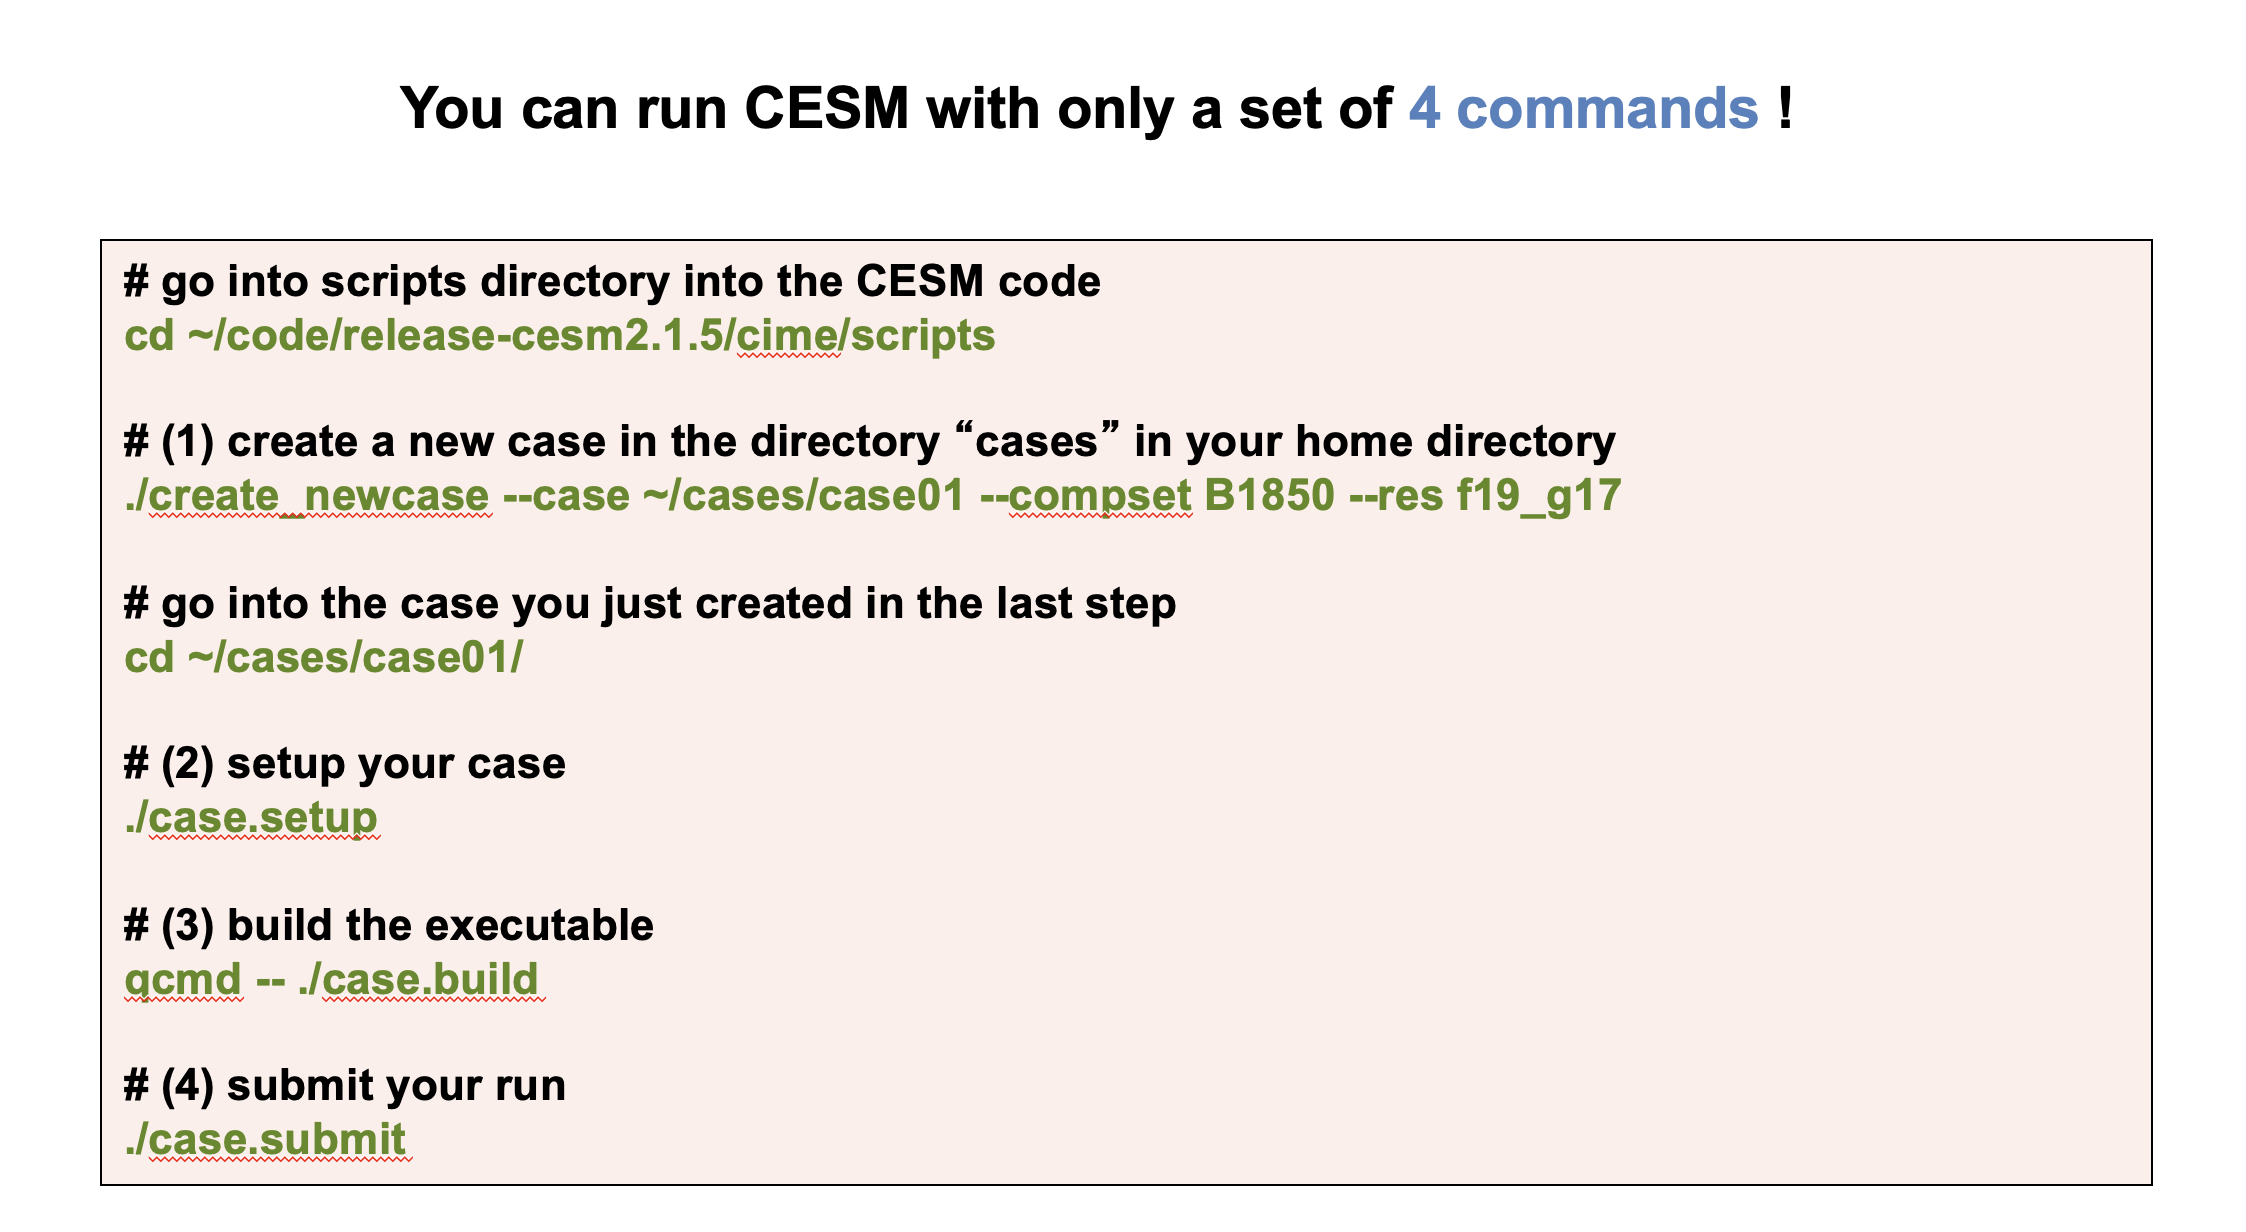
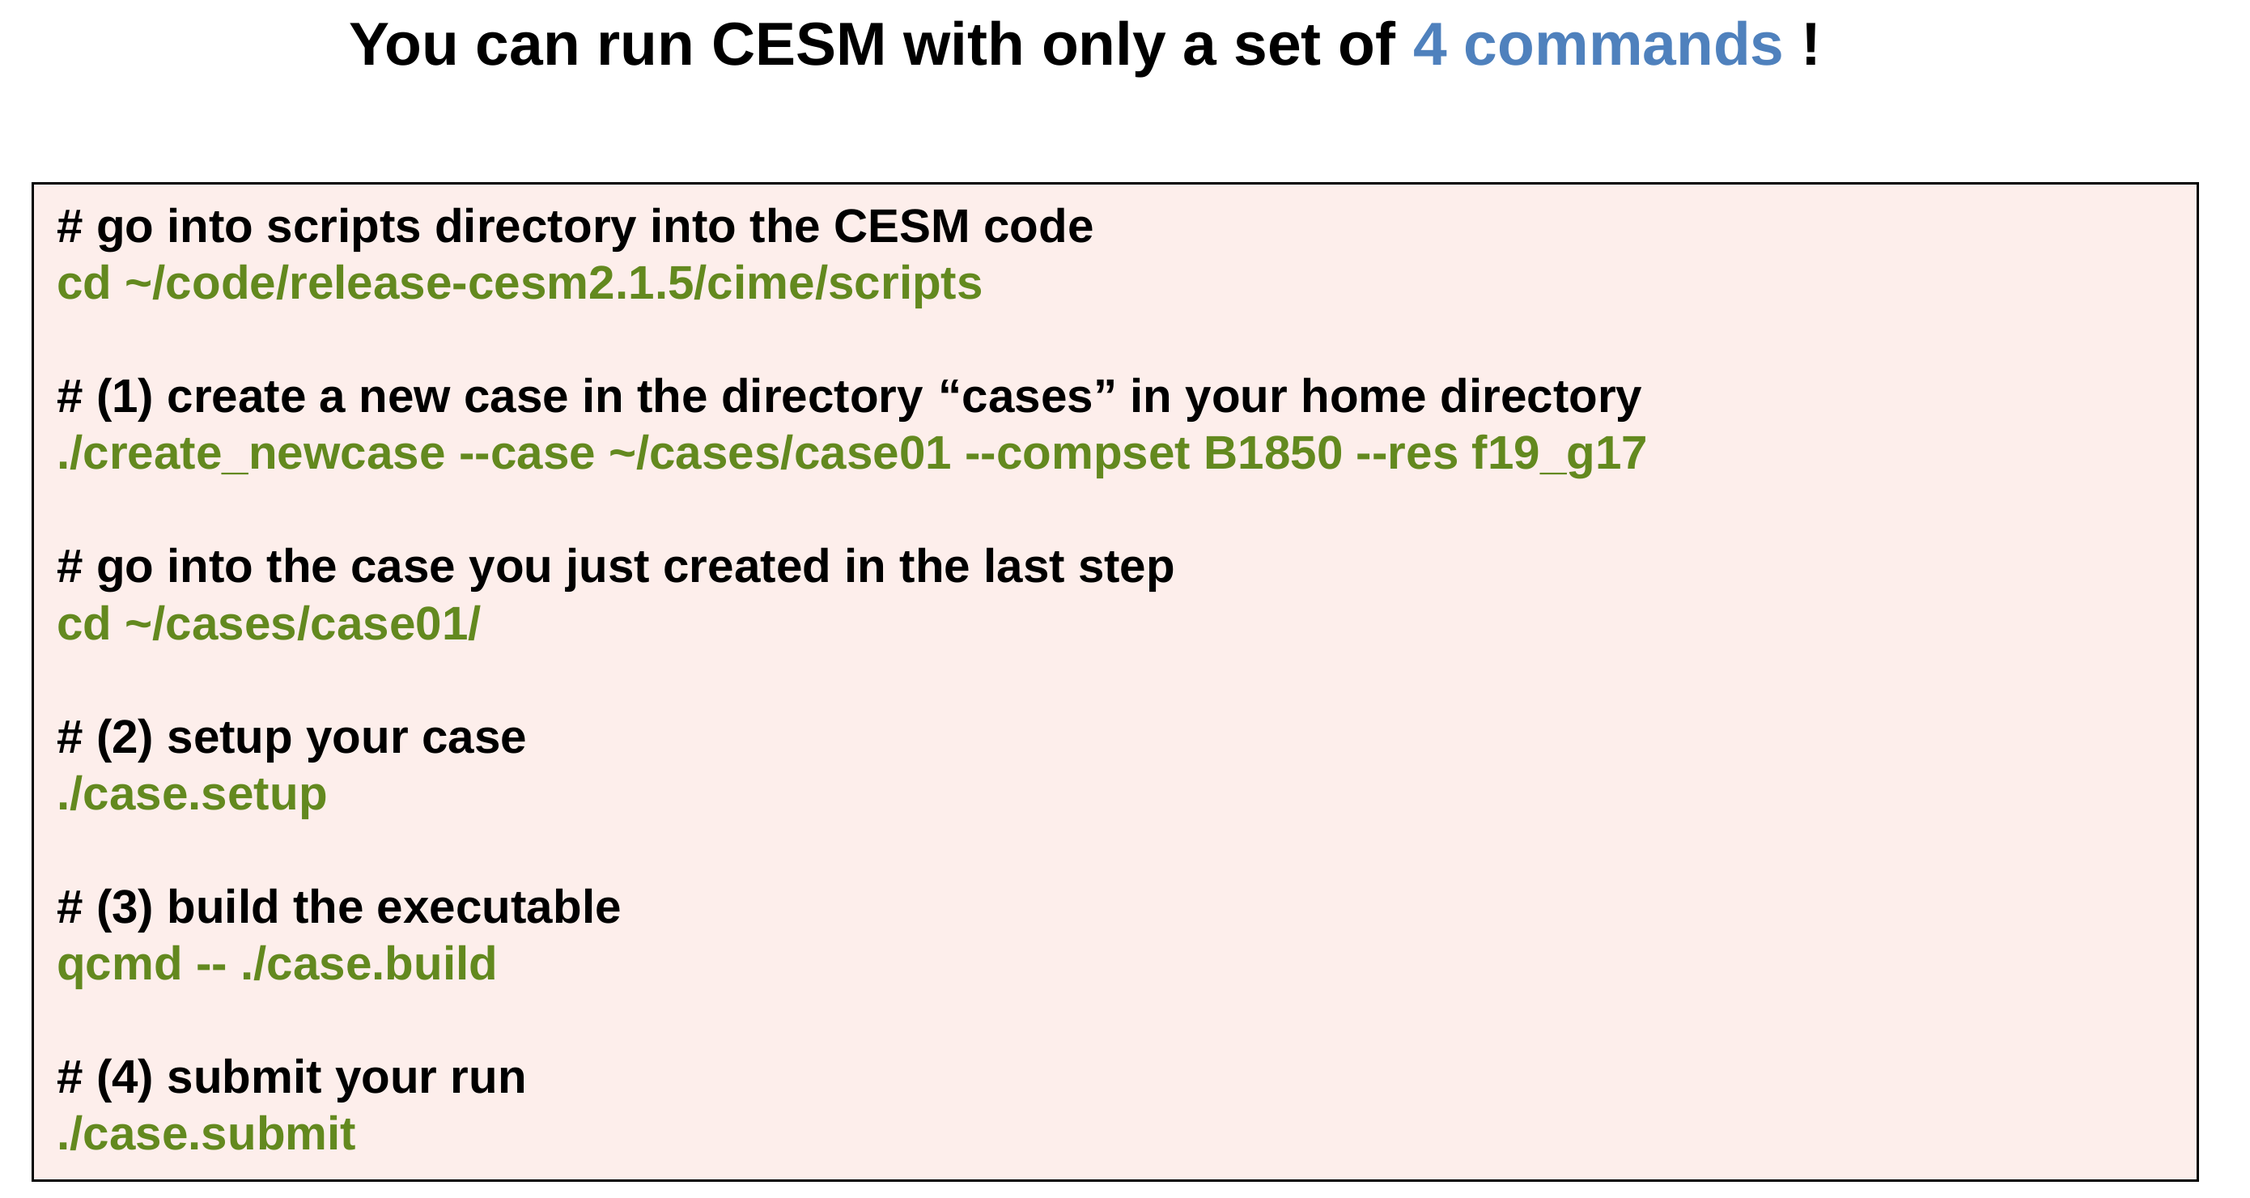
Split the four-commands page: move job-following and success checks to 4.2; renumber 4.3/4.4; re-render chapter 4 figures without spell-check marks

diff --git a/Notes.md b/Notes.md
@@ -58,7 +58,9 @@ look at output, and the "why use CESM" aside). Modeled on
 - The "Overview of CESM directories" diagrams (`images/cesm_directories_*.png`) were rendered
   from the original pptx slides, not hand-drawn: downloaded a portable LibreOffice (RPM
   tarball, extracted with `rpm2cpio`/`cpio`, no root/module needed — nothing installed
-  system-wide, would need re-downloading to scratch if more slides need rendering later),
+  system-wide; re-downloaded 12 Oct 2026 to `/glade/derecho/scratch/hannay/lo/` —
+  `install/opt/libreoffice26.8/program/soffice`, deck PDF and 300-dpi slide PNGs under
+  `render/`; scratch gets purged, so expect to redo this),
   converted the deck to PDF headless, rasterized specific pages with `pdftoppm`, and either
   cropped or (for slides where content overlapped the banner) pixel-diffed against a clean
   slide to mask out just the "Community Earth System Model Tutorial" footer banner.
@@ -106,6 +108,21 @@ look at output, and the "why use CESM" aside). Modeled on
   link). Chapters 5–7, 9–10 were rewritten in the undergrad voice; 1–4 kept Cécile's wording.
 - Session-2 exercises (6.2, 6.4) use the homework case `b1850_hw`, with a one-line fallback
   to `case01` from Exercise 2.
+
+## Chapter 4 split (12 Oct 2026)
+
+- `4.1_four_commands` grew to eight slide figures once Cécile added the before/after
+  directory diagrams, so the job-following and "did it work" material moved to a new
+  `4.2_did_it_work.ipynb`; compsets/grids and Exercise 1 became `4.3` / `4.4`. Cross-links
+  in 2.2, 5.3, 9.1, 11.4 were retargeted (the CaseStatus/log-check links now point at 4.2).
+- Cécile's screenshots of slides 17, 19–24, 26 carried PowerPoint's red spell-check
+  squiggles. They were re-rendered from `Tutorial-CESM-CU-2026.pptx` with the LibreOffice
+  pipeline above (banner cropped at row 2085 of 2250, downscaled to ~2300 px wide). The
+  "CLM" underline inside the create_newcase-arguments figure is part of an embedded picture
+  in the slide itself and was patched pixel-wise. If she re-exports from PowerPoint, turn
+  off "check spelling as you type" first.
+- `images/04.cesm_directories_workflow.png` is no longer referenced (replaced by
+  `04.cesm_after_run_complete.png`) and can be deleted.
 
 ## Open items / things to confirm with Cécile
 
